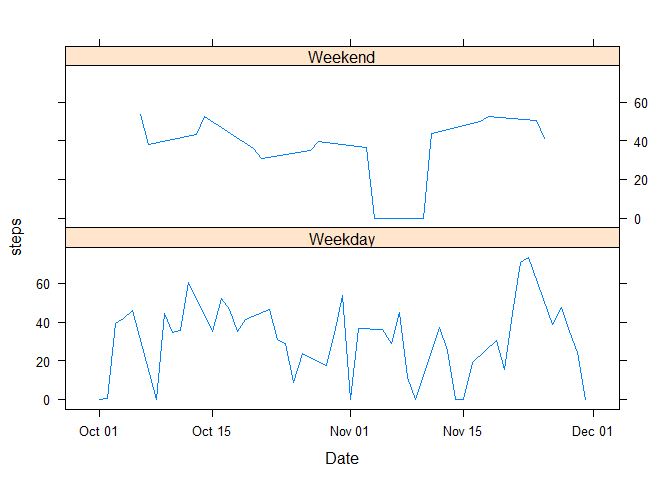
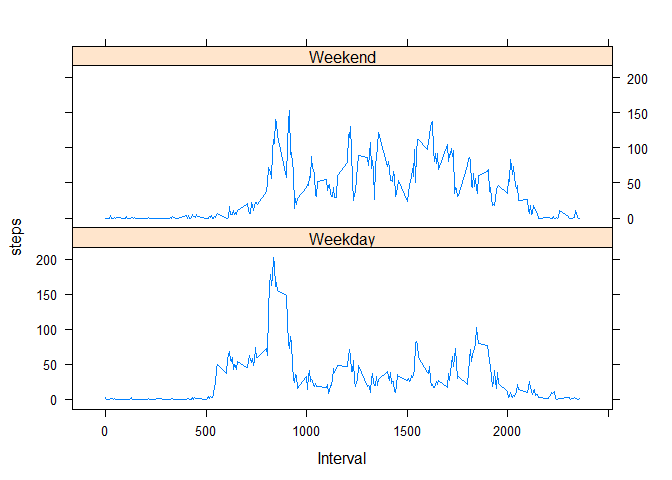
Add files via upload

diff --git a/PA1_template.md b/PA1_template.md
@@ -80,7 +80,7 @@ Are there differences in activity patterns between weekdays and weekends?
     wEndOrDay <- ifelse(newdat$numdate == 6 | newdat$numdate ==0,"Weekend","Weekday")
     wdat <- cbind(newdat,wEndOrDay)
 
-    avgswe <- aggregate(steps ~ date + wEndOrDay, wdat, mean)
-    xyplot(steps ~ date | wEndOrDay, avgswe, type = 'l', layout = c(1,2),xlab = "Date", ylabel= "Avg Num of Steps")
+    avgswe <- aggregate(steps ~ interval + wEndOrDay, wdat, mean)
+    xyplot(steps ~ interval | wEndOrDay, avgswe, type = 'l', layout = c(1,2),xlab = "Interval", ylabel= "Avg Num of Steps")
 
 ![](PA1_template_files/figure-markdown_strict/unnamed-chunk-6-1.png)
